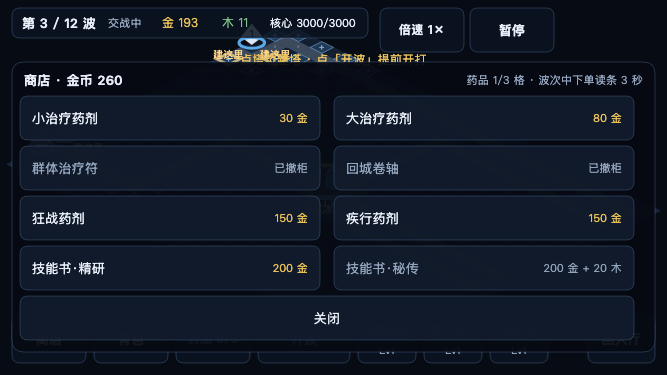
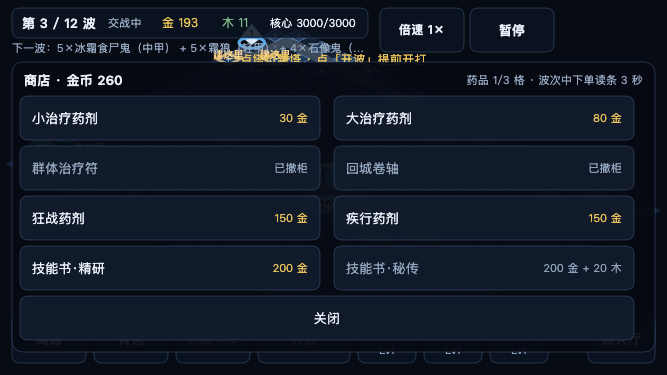
feat(minigame): 下一波预告 + 两个按模式取舍的设置开关（§8.3 / §6.2 / §154）
§8.3 的下一波预告在浏览器版是开波前必看的一行（这波是什么怪、什么护甲、有没有空中），
§6.2 的克制博弈整个建立在它上面。小游戏没有它，「补哪种塔」只能靠猜。

- HUD 多一行（y=48，顶栏与提示行之间）：文案取共享的 wavePreview(index+1, 3, waves)；
  太长按宽度裁到「…」（没有 CSS 的 text-overflow，怪物名与护甲标签长度可变）；
  设置里关掉时照浏览器版写「已在设置里关闭」——不是把这行藏起来
- 暂停面板按模式各补一格：TD 摆「波次预告」、防守摆「自动拾取」（内核读 m.autoPickup，改了立刻写进这一局）；
  这两格以前不敢摆是因为摆了没东西可接（§115/§154 那条「不给假选项」）
- 面板多一行 → 行高与位置重排，逐行仍 ≥44 且在画布内
- 用例 +2（纯绘制 / 关掉之后那一行改口）+ 暂停面板那条补两笔；两条变异反证
- npm test 315 → 317；minigame 6 条全过；主包 368.9 KB；样张重出

Changed region(s): [[0.0, 0.1173, 0.5397, 0.1467]]

diff --git a/src/minigame/battle.js b/src/minigame/battle.js
@@ -10,7 +10,7 @@ import {
   EQUIP_SELL_BONUS_LUMBER, EQUIP_SELL_REFUND, EQUIP_SLOTS, QUALITY, QUALITY_ORDER,
   SHOP_ITEMS, TARGET_PRIORITIES, TOWERS, TOWER_SELL_REFUND,
 } from '../data.js';
-import { attackHint, resultPanelModel, shopRows } from '../hud-model.js';
+import { attackHint, resultPanelModel, shopRows, wavePreview } from '../hud-model.js';
 import {
   TOWER_REPAIR_GOLD, craftableSlots, enhanceCostOf, potionCount, shopPriceOf, towerStatsAt, upgradeCost,
 } from '../match.js';
@@ -60,6 +60,18 @@ const text = (ctx, str, x, y, { size = 12, color = COLORS.ink, weight = '', alig
 const item = (id, x, y, w, h, label, action, extra = {}) => ({ id, x, y, w, h, label, action, ...extra });
 
 /**
+ * 把一句话裁到给定宽度（不够就加省略号）：HUD 上那几行文案的长度取决于**数据表**
+ * （怪物名与护甲标签都是可变的），量一量再画比「估个字数」靠谱——小游戏没有 CSS 的 `text-overflow`。
+ * 用不上 `measureText` 的假 ctx（Node 用例）会给出按字数估的宽度，行为一致。
+ */
+const fitText = (ctx, str, maxW) => {
+  if (ctx.measureText(str).width <= maxW) return str;
+  let cut = str;
+  while (cut.length > 1 && ctx.measureText(`${cut}…`).width > maxW) cut = cut.slice(0, -1);
+  return `${cut}…`;
+};
+
+/**
  * 战场 HUD 的布局（设计单位 667×375）。战场本身占满整屏，HUD 是压在上面的浮层：
  * 顶部一条状态栏、底部一排行（塔种 / 开波 / 技能 / 回大厅）。
  */
@@ -107,6 +119,8 @@ export function layoutBattle(model = {}) {
     // 顶栏只到 x=368：右边要留给倍速/暂停两个键（再往右是右上角胶囊区，官方要求避开）
     top: { x: 12, y: 8, w: 356, h: 30 },
     result: { x: 173, y: 120, w: 320, h: 130 },
+    // 下一波预告那一行（y=48：顶栏到 38 为止，再往下 60 是提示行；宽度在倍速键 380 之前收住）
+    preview: { x: 12, y: 48, w: 360 },
     tutorial: tutorial ? { x: 12, y: 261, w: 643, h: 44, text: tutorial } : null,
     items,
     byId: Object.fromEntries(items.map((it) => [it.id, it])),
@@ -123,7 +137,7 @@ export function hitTestBattle(L, x, y) {
 }
 
 /** 画 HUD（战场本身由 render.js 画，这里只画压在上面的那一圈） */
-export function drawBattleHud(ctx, m, L, { selectedTower = 'tw_arrow', message = null } = {}) {
+export function drawBattleHud(ctx, m, L, { selectedTower = 'tw_arrow', message = null, preview = null } = {}) {
   const waveLabel = m.length === 'long' ? `${m.wave.index} / 30 波` : `${m.wave.index} / 12 波`;
   const core = `${Math.round(m.core.hp)}/${m.core.maxHp}`;
   const phase = m.wave.phase === 'prep' ? `备战 ${Math.ceil(m.wave.timer)}s` : '交战中';
@@ -140,6 +154,14 @@ export function drawBattleHud(ctx, m, L, { selectedTower = 'tw_arrow', message =
   text(ctx, `金 ${Math.round(m.gold)}`, L.top.x + 150, L.top.y + 15, { size: 12, color: COLORS.gold });
   text(ctx, `木 ${Math.round(m.lumber?.[0] ?? 0)}`, L.top.x + 210, L.top.y + 15, { size: 12, color: COLORS.wood });
   text(ctx, `核心 ${core}`, L.top.x + 258, L.top.y + 15, { size: 11, color: m.core.hp / m.core.maxHp < 0.35 ? COLORS.danger : COLORS.ink });
+
+  /**
+   * 下一波预告（§8.3 / §6.2 的克制博弈）：**开波之前**就要能看出这一波是什么、
+   * 护甲是什么、有没有空中——不然「补哪种塔」这个决定只能靠猜。文案由 `wavePreview` 算（一份两处用）。
+   */
+  if (preview) {
+    text(ctx, fitText(ctx, preview, L.preview.w), L.preview.x, L.preview.y, { size: 11, color: COLORS.dim });
+  }
 
   // 引导条先画底、再画键：`items` 那一轮在它上面（跳过键就压在条的右端）
   if (L.tutorial) {
@@ -482,13 +504,26 @@ export function layoutPause(m, ui = {}) {
     id: 'sfx', label: '震动', sub: sv.sfx === false ? '关' : '开',
     x: 20, y: 196, w: 300, h: 44, on: sv.sfx !== false, action: { type: 'sfx' },
   });
-  rows.push({ id: 'lobby', label: '回大厅', x: 334, y: 196, w: 300, h: 44, action: { type: 'lobby' } });
+  /**
+   * §154：这一格也按模式取舍——TD 摆「波次预告」（§8.3：开波前先看这一波是什么），
+   * 防守摆「自动拾取」（§12.5：走到掉落物上自己捡）。两个都真的接着东西，不是摆样子。
+   */
+  rows.push(defense
+    ? {
+      id: 'autoPickup', label: '自动拾取', sub: sv.autoPickup === false ? '关' : '开',
+      x: 334, y: 196, w: 300, h: 44, on: sv.autoPickup !== false, action: { type: 'autoPickup' },
+    }
+    : {
+      id: 'wavePreview', label: '波次预告', sub: sv.showWavePreview === false ? '关' : '开',
+      x: 334, y: 196, w: 300, h: 44, on: sv.showWavePreview !== false, action: { type: 'wavePreview' },
+    });
+  rows.push({ id: 'lobby', label: '回大厅', x: 20, y: 246, w: 300, h: 44, action: { type: 'lobby' } });
   // §153 的「重看」：门槛只认 `profile.tutorialDone` 这一个标记，「重看」就是把它置回 false（下一局再挂）
   rows.push({
-    id: 'replayTutorial', label: '重看新手引导', sub: '下一局生效', x: 20, y: 246, w: 300, h: 44,
+    id: 'replayTutorial', label: '重看新手引导', sub: '下一局生效', x: 334, y: 246, w: 300, h: 44,
     action: { type: 'replayTutorial' },
   });
-  rows.push({ id: 'close', label: '收起面板', x: 334, y: 246, w: 300, h: 44, action: { type: 'close' } });
+  rows.push({ id: 'close', label: '收起面板', x: 20, y: 296, w: 614, h: 44, action: { type: 'close' } });
   return {
     kind: 'pause',
     title: '已暂停',
@@ -497,7 +532,7 @@ export function layoutPause(m, ui = {}) {
     hint: defense
       ? `第 ${m.assault?.round ?? 0} 轮 · 金币 ${Math.round(m.gold)}`
       : `第 ${m.wave.index} / ${m.length === 'long' ? 30 : 12} 波 · 金币 ${Math.round(m.gold)}`,
-    box: { x: 12, y: 62, w: 643, h: 240 },
+    box: { x: 12, y: 62, w: 643, h: 290 },
     rows, byId: Object.fromEntries(rows.map((r) => [r.id, r])),
   };
 }

diff --git a/src/minigame/game.js b/src/minigame/game.js
@@ -23,6 +23,7 @@ import { gridDist } from '../core.js';
 import { loadSettings, saveSettings } from '../settings.js';
 import { createHaptics } from '../feedback.js';
 import { createMinimap, createRenderer } from '../render.js';
+import { wavePreview } from '../hud-model.js';
 import {
   buildFort, createDefenseMatch, describeDefense, orderMove, repairCastle, steerGoal, teleportHome, updateDefense,
 } from '../defense.js';
@@ -173,6 +174,18 @@ export function startMinigame({ requestAnimationFrame: raf = globalThis.requestA
     y: Math.max(0, (size.height - DESIGN.h) / 2),
   });
 
+  /**
+   * 下一波预告那一行（§8.3 / §6.2）：文案取浏览器版那份 `wavePreview`（一份两处用），
+   * 只在设置里关掉时说「已在设置里关闭」——不是把这一行悄悄藏起来，
+   * 玩家得能分清「我关了」和「这波没有预告」。
+   */
+  const nextWaveHint = (m) => {
+    if (settings.showWavePreview === false) return '下一波：（已在设置里关闭）';
+    const p = wavePreview(m.wave.index + 1, 3, m.waves);
+    if (!p) return '下一波：—';
+    return `下一波：${p.tag ? `【${p.tag}】` : ''}${p.text}`;
+  };
+
   /** 进局：按大厅里选的那套配置开一局（联机/多人缩放先按单人；多人是后面的事） */
   const startMatch = () => {
     const seed = Date.now() % 1e6 || 7;
@@ -265,6 +278,12 @@ export function startMinigame({ requestAnimationFrame: raf = globalThis.requestA
         ...describeBattleModel(m), selectedTower: b.selectedTower, paused: b.paused, rate: b.rate,
         // 结算面板一出来就收掉提示条（浏览器版 `view.tutorial` 同源）
         tutorial: m.result ? null : (b.tutorial?.current()?.text ?? null),
+        /**
+         * 下一波预告（§8.3：把波次表翻成人话，含空中与 Boss 提示）——文案取浏览器版那份 `wavePreview`，
+         * 设置里关掉时照浏览器版写一句「已在设置里关闭」（不是把这一行悄悄藏起来，
+         * 玩家得知道是「我关了」而不是「这波没有预告」）。
+         */
+        preview: m.result ? null : nextWaveHint(m),
         ui: b.ui, sheet: b.sheetOf(),
       });
     b.layout = m.mode === 'defense' ? layoutDefense(m, defModel(b)) : layoutBattle(b.model());
@@ -504,6 +523,21 @@ export function startMinigame({ requestAnimationFrame: raf = globalThis.requestA
         settings = { ...settings, stick: settings.stick === 'floating' ? 'fixed' : 'floating' };
         saveSettings(settings);
         note(b, settings.stick === 'floating' ? '摇杆：浮动（跟手）' : '摇杆：固定（左下）', 1.4);
+        return action;
+      }
+      case 'wavePreview': {
+        // §8.3：开波前那行预告（防：关了就说一句「已在设置里关闭」，不是把那一行藏起来）
+        settings = { ...settings, showWavePreview: settings.showWavePreview === false };
+        saveSettings(settings);
+        note(b, settings.showWavePreview ? '波次预告已开' : '波次预告已关', 1.4);
+        return action;
+      }
+      case 'autoPickup': {
+        // §12.5：防守走到掉落物上自动捡。内核读的是 `m.autoPickup`，所以改了要**立刻**写进去
+        settings = { ...settings, autoPickup: settings.autoPickup === false };
+        saveSettings(settings);
+        b.m.autoPickup = settings.autoPickup;
+        note(b, settings.autoPickup ? '自动拾取已开' : '自动拾取已关', 1.4);
         return action;
       }
       case 'sfx': {
@@ -757,7 +791,8 @@ export function startMinigame({ requestAnimationFrame: raf = globalThis.requestA
         ctx.drawImage(b.minimap.canvas, MINIMAP.x, MINIMAP.y, MINIMAP.w, MINIMAP.h);
       }
     } else {
-      b.layout = layoutBattle(b.model());
+      const model = b.model();
+      b.layout = layoutBattle(model);
       // `hintSlots`：引导第一步/第二步在战场上圈出「建这里」（render.js 本来就有这段，直接复用）
       b.renderer.draw({
         m: b.m, selectedSlot: null, selectedTower: null, localSlot: 0, now: b.m.time, pulses: false,
@@ -766,7 +801,7 @@ export function startMinigame({ requestAnimationFrame: raf = globalThis.requestA
       // renderer 可能重设过变换，这里再对齐一次（并按大屏把 HUD 居中）
       const o = hudOffset();
       ctx.setTransform(size.dpr, 0, 0, size.dpr, size.dpr * o.x, size.dpr * o.y);
-      drawBattleHud(ctx, b.m, b.layout, { selectedTower: b.selectedTower, message });
+      drawBattleHud(ctx, b.m, b.layout, { selectedTower: b.selectedTower, message, preview: model.preview });
     }
     // 结算面板：内核出结果之后盖上来（内容是浏览器版那个 resultPanelModel，一份模型两个渲染器）
     recordIfFinished(b);

diff --git a/docs/STATUS.md b/docs/STATUS.md
@@ -21,7 +21,7 @@
 ## 2. 一条命令复跑全部验证
 
 ```bash
-npm test        # 315 项：数值 / 波次 / 经济 / 装备 / 天赋 / 技能细节 / 存档 / 联机 / 快速匹配 / 触觉反馈 / 摇杆指令 / 溅射衰减 / 药品计数 / 解锁来源与流水 / 野外区分区 / 亚格渲染 / 克制提示 / 局内资源不外流 / 仇恨 1 秒 / 野外区文案 / 战绩分模式 / 面板可见性 / 浮层收起 / 房间码提示 / 空房保留窗口 / 联机指令出口（handler 逐个查）/ 畸形指令与限速 / 克制表与枚举对齐 / 联机镜像不落本地存档（§113） / 大厅按模式给选项（§115：防守没有「局内时长」） / 低特效档真的关脉冲（§116） / 怪物光环按半径结算（§117） / Boss 光环按地图开关（§118） / 逻辑帧步长只有一个定义（§119） / 协议版本两侧校验（§120） / 畸形 URL 参数不崩服务端（§121） / 别人的名字不执行（§122） / 名字长度截断（§122） / 畸形指令值不崩服务端（§123） / 房间码不可枚举（§124） / 名单不广播 uid（§125） / 调试钩子默认关（§126）与「只在本地生效」（§197）/  免费期无付费入口（§128） / 联机结算面板也写「声望 +N」（§130） / 通关转无尽的出口（§131） / 精研技能书真的 +1 级（§132） / 狂战药剂真的持续 30 秒（§133） / 防守模式 buff 生效与疾风步移速（§134） / 两模式英雄 tick 职责对齐（§135） / 亡语分裂在防守里也生效（§136） / 防守的怪也吃减速眩晕 DoT（§137） / 防守内容不许带未实现能力（§138） / 「继续上局」只在**真读得出来**时出现（§139 + §204） /  **疾行药剂在两个模式都生效（§144） / **回城冷却进存档且真的走满 30 秒（§147） / **联机修塔真的生效、TD 专属指令在防守房被拒（§148） / **联机结算的伤害占比不为空、防守占比条写中文名（§149） / **结算面板的掉落栏写中文名（§151） / **快速匹配排队时写明「在等」（§152） / **新手引导的门槛与「重看」（§153） / **文案里的数字与数据表对账（§155） / ****临时端口串门与僵尸根因（§157）** / **4★-6★ 图能从大厅选到（§158） / **真机视口下大厅动作行粘底（§159） / **结算面板出口也粘底（§160） / **真机视口下防守 HUD 紧凑排布（§161） / **真机视口下引导条不压操作行（§162） / **联机长局镜像换成 30 波表（§163）/**§130 偶发红改成确定性（§164） / **联机怪物血条分母（§165）** / **联机房英雄职业进配置（§166）** / **浸泡不变量补五项（§167） / **真机视口下防守人体工学（§168）** / **§2.2 地图表逐列对账（§169） / **其余五张数值表逐列对账（§170） / **真机上的双指缩放与双击回核心（§171） / **把量出的偏差写回设计文档（§172） / **复跑三张数字表（§173） / **协议消息类型两边都要有人用（§174） / **零读者的导出扫干净（§175）** / **用到的 class 都有样式规则（§176）** / **客户端开局参数归一化（§177：坏 URL 不白屏 + 不污染档案）** / **缺 seed 的房间不再是常数种子（§177）** / **提示音在真机手势里解锁、日志不再谎报（§178）** / **真机手势卫生：连点技能键/长按不再被浏览器抢走（§180）** / **HUD 按安全区收边、不再压进刘海（§181）** / **冒烟的 CDP 请求加上限、不再偶发挂死（§182）** / **存不了档时说一声（§183）** / **大厅里不再偷偷打那一局（§184：不跑模拟、不出怪、不记档）** / **竖屏兜底「请横屏」（§185）**…
+npm test        # 317 项：数值 / 波次 / 经济 / 装备 / 天赋 / 技能细节 / 存档 / 联机 / 快速匹配 / 触觉反馈 / 摇杆指令 / 溅射衰减 / 药品计数 / 解锁来源与流水 / 野外区分区 / 亚格渲染 / 克制提示 / 局内资源不外流 / 仇恨 1 秒 / 野外区文案 / 战绩分模式 / 面板可见性 / 浮层收起 / 房间码提示 / 空房保留窗口 / 联机指令出口（handler 逐个查）/ 畸形指令与限速 / 克制表与枚举对齐 / 联机镜像不落本地存档（§113） / 大厅按模式给选项（§115：防守没有「局内时长」） / 低特效档真的关脉冲（§116） / 怪物光环按半径结算（§117） / Boss 光环按地图开关（§118） / 逻辑帧步长只有一个定义（§119） / 协议版本两侧校验（§120） / 畸形 URL 参数不崩服务端（§121） / 别人的名字不执行（§122） / 名字长度截断（§122） / 畸形指令值不崩服务端（§123） / 房间码不可枚举（§124） / 名单不广播 uid（§125） / 调试钩子默认关（§126）与「只在本地生效」（§197）/  免费期无付费入口（§128） / 联机结算面板也写「声望 +N」（§130） / 通关转无尽的出口（§131） / 精研技能书真的 +1 级（§132） / 狂战药剂真的持续 30 秒（§133） / 防守模式 buff 生效与疾风步移速（§134） / 两模式英雄 tick 职责对齐（§135） / 亡语分裂在防守里也生效（§136） / 防守的怪也吃减速眩晕 DoT（§137） / 防守内容不许带未实现能力（§138） / 「继续上局」只在**真读得出来**时出现（§139 + §204） /  **疾行药剂在两个模式都生效（§144） / **回城冷却进存档且真的走满 30 秒（§147） / **联机修塔真的生效、TD 专属指令在防守房被拒（§148） / **联机结算的伤害占比不为空、防守占比条写中文名（§149） / **结算面板的掉落栏写中文名（§151） / **快速匹配排队时写明「在等」（§152） / **新手引导的门槛与「重看」（§153） / **文案里的数字与数据表对账（§155） / ****临时端口串门与僵尸根因（§157）** / **4★-6★ 图能从大厅选到（§158） / **真机视口下大厅动作行粘底（§159） / **结算面板出口也粘底（§160） / **真机视口下防守 HUD 紧凑排布（§161） / **真机视口下引导条不压操作行（§162） / **联机长局镜像换成 30 波表（§163）/**§130 偶发红改成确定性（§164） / **联机怪物血条分母（§165）** / **联机房英雄职业进配置（§166）** / **浸泡不变量补五项（§167） / **真机视口下防守人体工学（§168）** / **§2.2 地图表逐列对账（§169） / **其余五张数值表逐列对账（§170） / **真机上的双指缩放与双击回核心（§171） / **把量出的偏差写回设计文档（§172） / **复跑三张数字表（§173） / **协议消息类型两边都要有人用（§174） / **零读者的导出扫干净（§175）** / **用到的 class 都有样式规则（§176）** / **客户端开局参数归一化（§177：坏 URL 不白屏 + 不污染档案）** / **缺 seed 的房间不再是常数种子（§177）** / **提示音在真机手势里解锁、日志不再谎报（§178）** / **真机手势卫生：连点技能键/长按不再被浏览器抢走（§180）** / **HUD 按安全区收边、不再压进刘海（§181）** / **冒烟的 CDP 请求加上限、不再偶发挂死（§182）** / **存不了档时说一声（§183）** / **大厅里不再偷偷打那一局（§184：不跑模拟、不出怪、不记档）** / **竖屏兜底「请横屏」（§185）**…
 npm run soak    # 180 局全组合浸泡：运行期不变量 + 存档不动点 + 客户端镜像一致性
 npm run smoke   # 378 条真浏览器断言（**三个视口**、十一个面；含快速匹配、内存告警降级、真按下的短震动链路、防守摇杆拖动、点空地的塔位提示、克制提示与护甲预告、野外区掉落加成、防守战绩口径、日志面板让位/恢复、跨局浮层收起、攻城图的修塔按钮、秘传技能书的技能栏变化、优先级/速度/围墙/重置进度、HUD 数值跟随（7+3 处）、塔面板 X 与标题、再开一局、长局 30 波 HUD、真机视口下的轮盘/塔面板、房间码提示与镜像对齐、进不去房间转单人继续、被动掉线自动重连、**六条联机指令真的到服务端**、**§113 联机点「回大厅/再开一局」真的离房**、**§114 联机不假装暂停/加速、掉线写清 5 分钟**/**§115 防守模式不摆「局内时长」假选项**/**§116 低特效档真的关脉冲**/**§145 每次版式体检都查「两块 HUD 浮层不许叠在一起」**/**§153 新手引导门槛与「重看」（§153）/**设置面板按模式取舍选项（§154）/**文案里的数字与数据表对账（§155）**/**临时端口串门与僵尸根因（§157）/**4★-6★ 图能从大厅选到（§158）/**真机视口下大厅动作行粘底（§159）/**结算面板出口也粘底（§160）**/**真机视口下防守 HUD 紧凑排布（§161）**/**真机视口下引导条不压操作行（§162）/**联机长局镜像换成 30 波表（§163）/**§130 偶发红改成确定性（§164）/**联机怪物血条分母（§165）**/**联机房英雄职业进配置（§166）**/**浸泡不变量补五项（§167）/**真机视口下防守人体工学（§168）**/**§2.2 地图表逐列对账（§169）/**其余五张数值表逐列对账（§170）/**真机上的双指缩放与双击回核心（§171）**/**客户端坏 URL 不白屏（§177）**/**提示音在真机策略下真的响了（§178）**/**真机手势卫生（§180）**/**HUD 不进刘海安全区（§181）**/**大厅不跑模拟（§184）**/**竖屏有「请横屏」兜底（§185）**/**低端 4G 模拟下首屏 ≤3 秒（§186）** / **「再开一局」连打的第二局也记档（§188）** / **浏览器里真的把 12 波打完、结算与档案都对（§189）** / **防守也真的守满 4 轮；城堡陷落后「继续（无尽）」不再挂着（§190）** / **长局 30 波也在浏览器里真的打完（§191，含一条参考打法在 4★ 长局末波输掉的观测）** / **中途加入已在打的房（§192）** / **§130 那条「声望 +N」的偶发红改成确定性（§193：根因是房间空着时就记了结算）** / **`sim` 调试钩子只在本地生效（§197：补上 §126 那条「非 URL 开关」的规矩）** / **连打不涨：6 局 DOM/堆都平，并把「每局不长 DOM」钉进冒烟（§198）** / **服务端不再攒退役房间（§199：删掉只写不读的 `stopped` 表）** / **画布内容与「画面在动」也有检查了（§200–§202）** / **第三个视口 568×320（§203）** / **「能读的才算有存档」补齐后半（§204）** / **档案形状归一化（§205）** / **日志面板的 innerHTML 先转义（§206：那一处最容易新增玩家名字）**
 npm run waves   # §8.5 逐波余量（4 人基准）
@@ -194,7 +194,7 @@ npm run bench / bandwidth   # 容量 / 带宽预算（§110/§111：两个工具
 |---|---|---|---|
 | 1 | **按 `game-design.md` 的已确认需求开发** | ✅ | 设计文档里**打勾的验收清单**逐条有实现与检查（见 §1 那张表）；**所有数值表逐列对过账**（§169/§170，改一处就红）；**原「等拍板」的 33 条已全部拍板并落地**（§3.1 + 验证记录 §207–§209；文档类的 20 条在附录 B/C 与对应小节补了口径） |
 | 2 | **一直开发到能玩为止** | ✅ | 浏览器里**真的**跑通过整条链路：TD 短局通关（§189：7.4 分钟、结算面板、记档、解锁 map_02）、防守守满 4 轮转无尽（§190）、**长局 30 波**（§191：32.5 分钟）；联机建房 / 快速匹配 / 中途加入第 3 波（§192）/ 掉线重连 / 离场（§102/§113/§114）；三个视口（1334×750 / 667×375 / **568×320**）的版式与人体工学（§203、§145）；手机竖屏有「请横屏」兜底（§185） |
-| 3 | **自己去验证错误** | ✅ | 验证记录 **§1–§233**：每条发现都带「一个能失败的检查」+ 变异反证；最新一轮全量复跑：`npm test` **315 项** · `npm run smoke` **378 条**（三个视口、十一个面）· `soak` 180 局（119 胜 61 负，不变量一条没破）· `matrix` 全绿（**并检查首发三图普通档 8-12 分钟**）· `defense` 12.7 分钟/4 轮 · `waves` 12/12 · `defense-matrix` 36 局守住 22（**验收线 8 格全过**）· `bandwidth` 6.61 KB/s（预算 15）· `bench` 1699k 实体·帧/秒 · `tutorial` 3/3 达标 |
+| 3 | **自己去验证错误** | ✅ | 验证记录 **§1–§234**：每条发现都带「一个能失败的检查」+ 变异反证；最新一轮全量复跑：`npm test` **317 项** · `npm run smoke` **378 条**（三个视口、十一个面）· `soak` 180 局（119 胜 61 负，不变量一条没破）· `matrix` 全绿（**并检查首发三图普通档 8-12 分钟**）· `defense` 12.7 分钟/4 轮 · `waves` 12/12 · `defense-matrix` 36 局守住 22（**验收线 8 格全过**）· `bandwidth` 6.61 KB/s（预算 15）· `bench` 1699k 实体·帧/秒 · `tutorial` 3/3 达标 |
 
 **仍然在别人手里的（不是欠债，是等输入）**：
 

diff --git a/README.md b/README.md
@@ -12,7 +12,7 @@
 M0.5 可玩原型（TD 塔防首发切片）：等距伪 3D 横屏战场、12 波、4 种塔各 3 级、4 英雄（含 2 主动技 + 技能书解锁第 3 技）、9 种怪物、装备掉落与一键合成、商店与药品、暂停与加速。
 
 ```bash
-npm test        # 315 项（含小游戏打包产物的检查）：数值 / 波次 / 经济 / 人数缩放（§1.6：怪量·生命·金币，联机房按名册定档）/ 地形（§2.3：岩浆挡弹道、沼泽减速与射程 −1、高地射程 +1.5 攻击 +10%）/ 难度四列（§2.4：生命·攻击·出怪速度·掉落）/ 局外人物等级（初始金币 + 复活加速）/ 武器 4 类（单体/群伤/减速/对空，特性真的生效）· 装备（主属性与词条真的进战斗 · 强化 +1..+5 · 自由换装 · 出售返还）/ DPS 线（裸装 ≤2.5 座塔 + **满装 ≤4 座**，§3.1 #3）/ 掉落节奏（含橙装来源拆账）/ 概率上限与闪避 / 容错率 / 整局 / 天赋接线（钢铁意志·咒术精通·法力涌动）/ 技能细节（制裁之锤对 Boss 眩晕减半、猎人印记加成英雄普攻）/ 商店（3 格背包·波次中读条 3 秒·回城卷轴·**防守商店只在基地内**〔§3.1 #14〕·群疗符禁售〔#20〕）/ 指令表双向对齐（含 **`leave`**）/ 主动退房与掉线的区别（§3.1 #23）/ 设备级 token：冒用 uid 被拒 + 本机换身份重连（§3.1 #24）/ **深链进锁着的图按档案归一化**（§3.1 #29）/ 中途加入窗口（§12.3）/ 快速匹配（§1.5：分桶·满员即开·45 秒窗口）/ 攻击优先级（§8.3 四种模式）/ 克制提示（§3.8·§6.2：提示由克制表算出）/ 克制表与枚举对齐（§6.2）/ 实体传送点（§2.6）/ 上次配置一键开局（§2.1） / 局内资源不外流（§12.6）/ 战绩分模式（§12.6：TD 最快通关 / 防守守住轮次）/ 仇恨 1 秒窗口（§7.7：脱离后还要被追打 1 秒）/ 野外区文案（§2.6：区名 + 等级段 + 掉落加成）/ 面板可见性（§14.3：日志让位由 CSS 表达）/ 跨局浮层收起（§95：开新局前收掉轮盘与塔面板）/ 房间码没命中的提示与房间配置对齐（§1.5 / §102）/ 空房保留 5 分钟边界（§10.3）/ 联机指令出口（§10.1：键盘与按钮同一条路，且每个 handler 都有 net 分支）/ 畸形指令与限速（§12.7 / §108）/ 防守摇杆指令（§1.9.1·§10.1：目标格算法 + 贴墙退化）/ 溅射距离衰减（§7.1：落点 100% → 边缘 50%）/ 野外区分区掉落（§2.6·§12.8：dropBonus）/ 解锁来源与货币流水（§1.7.3）/ 亚格渲染（§10.3：怪与人物按 dist/carry 画，不再跳格）/ 快照序号与补发（§10.3 序号跳跃 → 请求全量） / 渲染（相机·小地图·地图缩略图）/ HUD / 联机 / 带宽 / 重连 / 存档 / 解锁 / 队伍色 / 预测 / 性能护栏 / 不卡死（每局都必须能结束）/ 复活保护 / 触觉反馈 / 药品计数（§5.5） / 联机镜像不落本地存档（§113） / 大厅按模式给选项（§115：防守没有「局内时长」） / 低特效档真的关脉冲（§116） / 怪物光环按半径结算（§117） / Boss 光环按地图开关（§118） / 逻辑帧步长只有一个定义（§119） / 协议版本两侧校验（§120） / 畸形 URL 参数不崩服务端（§121） / 别人的名字不执行（§122） / 名字长度截断（§122） / 畸形指令值不崩服务端（§123） / 房间码不可枚举（§124） / 名单不广播 uid（§125） / 调试钩子默认关（§126） / 免费期无付费入口（§128） / 联机结算面板也写「声望 +N」（§130） / 通关转无尽的出口（§131） / 精研技能书真的 +1 级（§132） / 狂战药剂真的持续 30 秒（§133） / 防守模式 buff 生效与疾风步移速（§134） / 两模式英雄 tick 职责对齐（§135） / 亡语分裂在防守里也生效（§136） / 防守的怪也吃减速眩晕 DoT（§137） / 防守内容不许带未实现能力（§138） / **疾行药剂在两个模式都生效（§144）** / **回城冷却进存档且真的走满 30 秒（§147）** / **联机修塔真的生效、TD 专属指令在防守房被拒（§148） / **联机结算的伤害占比不为空、防守占比条写中文名（§149） / **结算面板的掉落栏写中文名（§151） / **快速匹配排队时写明「在等」（§152） / **新手引导的门槛与「重看」（§153）** / **设置面板按模式取舍选项（§154）** / **文案里的数字与数据表对账（§155） / ****临时端口串门与僵尸 npm test 的根因（§157）** / **4★-6★ 图能从大厅选到（§158） / **真机视口下大厅动作行粘底（§159） / **结算面板出口也粘底（§160） / **真机视口下防守 HUD 换紧凑排布（§161） / **真机视口下引导条不压操作行（§162） / **联机长局的镜像换成 30 波表（§163） / **§130 偶发红改成确定性（§164） / **联机怪物血条的分母由服务端给（§165） / **联机房的英雄职业也进配置（§166） / **浸泡的不变量补五项（§167） / **真机视口下防守人体工学也量了（§168） / **§2.2 地图表逐列对账（§169） / **其余五张数值表逐列对账（§170） / **真机上的双指缩放与双击回核心（§171） / **把量出的偏差写回设计文档（§172） / **复跑三张数字表（§173） / **协议消息类型两边都要有人用（§174） / **零读者的导出扫干净（§175）** / **用到的 class 都有样式规则（§176）** / **客户端开局参数归一化：坏 URL 不再白屏、不再污染档案（§177）** / **提示音在真机手势里解锁、日志不再谎报（§178）** / **真机手势卫生：连点技能键不再触发双击缩放（§180）** / **HUD 不再压进刘海（§181：按 `env(safe-area-inset-*)` 收边）** / **存不了档时说一声（§183）** / **大厅里不再偷偷打那一局（§184：不跑模拟、不记档）** / **竖屏兜底「请横屏」（§185）**
+npm test        # 317 项（含小游戏打包产物的检查）：数值 / 波次 / 经济 / 人数缩放（§1.6：怪量·生命·金币，联机房按名册定档）/ 地形（§2.3：岩浆挡弹道、沼泽减速与射程 −1、高地射程 +1.5 攻击 +10%）/ 难度四列（§2.4：生命·攻击·出怪速度·掉落）/ 局外人物等级（初始金币 + 复活加速）/ 武器 4 类（单体/群伤/减速/对空，特性真的生效）· 装备（主属性与词条真的进战斗 · 强化 +1..+5 · 自由换装 · 出售返还）/ DPS 线（裸装 ≤2.5 座塔 + **满装 ≤4 座**，§3.1 #3）/ 掉落节奏（含橙装来源拆账）/ 概率上限与闪避 / 容错率 / 整局 / 天赋接线（钢铁意志·咒术精通·法力涌动）/ 技能细节（制裁之锤对 Boss 眩晕减半、猎人印记加成英雄普攻）/ 商店（3 格背包·波次中读条 3 秒·回城卷轴·**防守商店只在基地内**〔§3.1 #14〕·群疗符禁售〔#20〕）/ 指令表双向对齐（含 **`leave`**）/ 主动退房与掉线的区别（§3.1 #23）/ 设备级 token：冒用 uid 被拒 + 本机换身份重连（§3.1 #24）/ **深链进锁着的图按档案归一化**（§3.1 #29）/ 中途加入窗口（§12.3）/ 快速匹配（§1.5：分桶·满员即开·45 秒窗口）/ 攻击优先级（§8.3 四种模式）/ 克制提示（§3.8·§6.2：提示由克制表算出）/ 克制表与枚举对齐（§6.2）/ 实体传送点（§2.6）/ 上次配置一键开局（§2.1） / 局内资源不外流（§12.6）/ 战绩分模式（§12.6：TD 最快通关 / 防守守住轮次）/ 仇恨 1 秒窗口（§7.7：脱离后还要被追打 1 秒）/ 野外区文案（§2.6：区名 + 等级段 + 掉落加成）/ 面板可见性（§14.3：日志让位由 CSS 表达）/ 跨局浮层收起（§95：开新局前收掉轮盘与塔面板）/ 房间码没命中的提示与房间配置对齐（§1.5 / §102）/ 空房保留 5 分钟边界（§10.3）/ 联机指令出口（§10.1：键盘与按钮同一条路，且每个 handler 都有 net 分支）/ 畸形指令与限速（§12.7 / §108）/ 防守摇杆指令（§1.9.1·§10.1：目标格算法 + 贴墙退化）/ 溅射距离衰减（§7.1：落点 100% → 边缘 50%）/ 野外区分区掉落（§2.6·§12.8：dropBonus）/ 解锁来源与货币流水（§1.7.3）/ 亚格渲染（§10.3：怪与人物按 dist/carry 画，不再跳格）/ 快照序号与补发（§10.3 序号跳跃 → 请求全量） / 渲染（相机·小地图·地图缩略图）/ HUD / 联机 / 带宽 / 重连 / 存档 / 解锁 / 队伍色 / 预测 / 性能护栏 / 不卡死（每局都必须能结束）/ 复活保护 / 触觉反馈 / 药品计数（§5.5） / 联机镜像不落本地存档（§113） / 大厅按模式给选项（§115：防守没有「局内时长」） / 低特效档真的关脉冲（§116） / 怪物光环按半径结算（§117） / Boss 光环按地图开关（§118） / 逻辑帧步长只有一个定义（§119） / 协议版本两侧校验（§120） / 畸形 URL 参数不崩服务端（§121） / 别人的名字不执行（§122） / 名字长度截断（§122） / 畸形指令值不崩服务端（§123） / 房间码不可枚举（§124） / 名单不广播 uid（§125） / 调试钩子默认关（§126） / 免费期无付费入口（§128） / 联机结算面板也写「声望 +N」（§130） / 通关转无尽的出口（§131） / 精研技能书真的 +1 级（§132） / 狂战药剂真的持续 30 秒（§133） / 防守模式 buff 生效与疾风步移速（§134） / 两模式英雄 tick 职责对齐（§135） / 亡语分裂在防守里也生效（§136） / 防守的怪也吃减速眩晕 DoT（§137） / 防守内容不许带未实现能力（§138） / **疾行药剂在两个模式都生效（§144）** / **回城冷却进存档且真的走满 30 秒（§147）** / **联机修塔真的生效、TD 专属指令在防守房被拒（§148） / **联机结算的伤害占比不为空、防守占比条写中文名（§149） / **结算面板的掉落栏写中文名（§151） / **快速匹配排队时写明「在等」（§152） / **新手引导的门槛与「重看」（§153）** / **设置面板按模式取舍选项（§154）** / **文案里的数字与数据表对账（§155） / ****临时端口串门与僵尸 npm test 的根因（§157）** / **4★-6★ 图能从大厅选到（§158） / **真机视口下大厅动作行粘底（§159） / **结算面板出口也粘底（§160） / **真机视口下防守 HUD 换紧凑排布（§161） / **真机视口下引导条不压操作行（§162） / **联机长局的镜像换成 30 波表（§163） / **§130 偶发红改成确定性（§164） / **联机怪物血条的分母由服务端给（§165） / **联机房的英雄职业也进配置（§166） / **浸泡的不变量补五项（§167） / **真机视口下防守人体工学也量了（§168） / **§2.2 地图表逐列对账（§169） / **其余五张数值表逐列对账（§170） / **真机上的双指缩放与双击回核心（§171） / **把量出的偏差写回设计文档（§172） / **复跑三张数字表（§173） / **协议消息类型两边都要有人用（§174） / **零读者的导出扫干净（§175）** / **用到的 class 都有样式规则（§176）** / **客户端开局参数归一化：坏 URL 不再白屏、不再污染档案（§177）** / **提示音在真机手势里解锁、日志不再谎报（§178）** / **真机手势卫生：连点技能键不再触发双击缩放（§180）** / **HUD 不再压进刘海（§181：按 `env(safe-area-inset-*)` 收边）** / **存不了档时说一声（§183）** / **大厅里不再偷偷打那一局（§184：不跑模拟、不记档）** / **竖屏兜底「请横屏」（§185）**
 npm run selfplay  # 无头打一整局，打印每波推进与结算（默认 4 人基准；FF_PLAYERS=1 切单人档，§1.6）
 npm run bandwidth # 带宽实测（默认 8 秒，可传秒数）
 npm run bench     # 容量实测（默认 200 实体 × 600 tick；§111 起：过程里场上掉到目标的 90% 以下就 exit 1，不再拿空场的吞吐当结论）

diff --git a/docs/minigame-port.md b/docs/minigame-port.md
@@ -172,7 +172,7 @@ npm run minigame         # 先打包再跑本地验收（假 wx）
 ```bash
 npm run minigame          # 打包 + 假 wx 验收（含「大厅画出来了 / 触摸能选中」6 条）
 npm run minigame:preview  # 出七张样张（大厅 / 战场 / 塔 / 商店 / 结算 / 暂停 / 防守）
-npm test                  # 315 项：小游戏这一层的大厅 / 战场 / 建造 / 商店 / 结算 / 暂停 / 继续上局 / 防守 / 新手引导 / 相机
+npm test                  # 317 项：小游戏这一层的大厅 / 战场 / 建造 / 商店 / 结算 / 暂停 / 继续上局 / 防守 / 新手引导 / 相机
 ```
 
 ## 6. 发布前还差什么（非代码，都要你那边办）
@@ -225,7 +225,7 @@ npm test                  # 315 项：小游戏这一层的大厅 / 战场 / 建
 ```bash
 npm run minigame          # 打包 + 假 wx 本地验收（6 条：环境自检 / 内核等价性 / 模块清单 / 大厅画出来了 / 触摸能选中 / 点开局能进局）
 npm run minigame:preview  # 本机 Chrome 出七张样张（docs/testing/screenshots/minigame-*.png）
-npm test                  # 315 项，含小游戏这几屏的布局 / 命中 / 状态迁移 / 记档
+npm test                  # 317 项，含小游戏这几屏的布局 / 命中 / 状态迁移 / 记档
 npm run smoke             # 378 条真浏览器断言（浏览器那一侧的界面仍然按浏览器验）
 ```
 
@@ -492,3 +492,24 @@ STATUS §3.1 #33 拍板过一件事：**最小支持视口 = 667×375**，比它
 那一格的命中就是回城）与真机路（离屏画布上真的画了底/野区/围墙与那些圆点、主画布这一帧 `drawImage` 贴了它、
 点它真的进 30 秒冷却）；TD 那边钉一句「不该有小地图」（它是跟随相机的防守专属）。
 两条变异反证（不贴图、拿掉那一格）都红。样张 `minigame-defense.png` 现在能看到小地图。
+
+### 5.2.17 下一波预告 + 两个设置开关（已完成 · 2026-09-23）
+
+§8.3 的「下一波预告」在浏览器版是这么用的：**开波之前**先看这一波是什么怪、什么护甲、有没有空中，
+据此决定补哪种塔——§6.2 那条克制博弈（以及 §3.8 的克制提示）整个建立在这行字上。小游戏这边没有它，
+于是「补哪种塔」只能靠猜或靠 §3.8 提示事后补救。
+
+* HUD 上多一行（y=48，顶栏与提示行之间）：`下一波：3×冰霜食尸鬼（中甲） + 2×霜狼（轻甲） …`，
+  文案取浏览器版那份 `wavePreview(m.wave.index + 1, 3, m.waves)`（一份两处用，含空中与 Boss 的标记）；
+  太长就按宽度裁到「…」（小游戏没有 CSS 的 `text-overflow`，所以在绘制时量一量）；
+  设置里关掉时**照浏览器版写一句「已在设置里关闭」**——不是把这一行藏起来，玩家得能分清「我关了」
+  和「这波没有预告」。
+* 暂停面板里补上两个**按模式取舍**的开关（§154）：TD 摆**波次预告**、防守摆**自动拾取**
+  （§12.5：走到掉落物上自己捡，内核读 `m.autoPickup`，所以一改就立刻写进这一局）。
+  这两个以前不敢摆，是因为摆了也没东西可接（预告不存在、自动拾取只在开局生效）——现在两条都真的接着东西。
+* 面板因此多了一行，行高与位置重排（收起面板单独占最后一行），仍然逐行 ≥44 且在画布内。
+
+**验收**：`tests/minigame-battle.test.js` 加两条——纯绘制（那一行画出来、太长以「…」收尾、y=48 在顶栏与提示行之间）
+与闭环（第一局默认能看到下一波与护甲 → 暂停面板里那颗「波次预告」切到「关」→ 设置落盘 →
+HUD 那一行改成「已在设置里关闭」）；暂停面板那条用例补上「TD 摆波次预告、不摆自动拾取」。
+两条变异反证（把 `preview` 写死成 null、把那一格改名）都红。

diff --git a/docs/testing/m0.5-td-prototype.md b/docs/testing/m0.5-td-prototype.md
@@ -9386,3 +9386,40 @@ TD 那边钉一句反向断言：「TD 的 HUD 上不该有小地图」（它是
 
 `npm test` 313 → **315 项** · `npm run minigame` 6 条全过 · 主包 17 个模块 / 364.9 KB（4MB 上限的 8.9%）·
 样张重出（`minigame-defense.png` 现在能看到小地图）· 浏览器侧一行没动。
+
+## 234. 小游戏补「下一波预告」与两个设置开关（§8.3 / §6.2 / §154）
+
+继续同一条尺子量。这次量到的是**策略**那一层：§8.3 的「下一波预告」在浏览器版是开波前必看的一行
+（这波是什么怪、什么护甲、有没有空中），§6.2 那条克制博弈就建立在这行字上。小游戏这边没有它，
+于是「补哪种塔」只能靠猜——§3.8 的克制提示只能在选中塔之后告诉你，来不及。
+
+### 234.1 一行预告 + 两个开关
+
+| 事 | 做法 |
+|---|---|
+| 预告那一行 | HUD 上 y=48（顶栏 38 与提示行 60 之间），文案取浏览器版那份 `wavePreview(index+1, 3, waves)`（一份两处用） |
+| 太长怎么办 | 绘制时用 `ctx.measureText` 裁到「…」——小游戏没有 CSS 的 `text-overflow`，而怪物名与护甲标签来自数据表、长度可变 |
+| 设置里关了 | 照浏览器版写一句「已在设置里关闭」，**不是把这一行藏起来**：玩家得能分清「我关了」和「这波没有预告」 |
+| 暂停面板 | 按模式各补一格（§154）：TD 摆**波次预告**、防守摆**自动拾取**（§12.5；内核读 `m.autoPickup`，改了立刻写进这一局） |
+
+那两个开关以前不敢摆，是因为**摆了也没东西可接**（预告不存在；自动拾取只在开局那一刻读一次）——
+现在两条都真的接着东西，这才敢摆（§115/§154 那条「不给假选项」的同一道判断）。
+面板因此多一行，行高与位置重排（收起面板单独占最后一行），逐行仍然 ≥44 且在画布内。
+
+### 234.2 检查
+
+`tests/minigame-battle.test.js` 加两条：
+
+① 纯绘制——那一行画出来（含护甲）、长句以「…」收尾、`L.preview.y` 落在顶栏与提示行之间；
+② 闭环——第一局默认能看到下一波与护甲 → 暂停面板里那颗「波次预告」切到「关」→ 设置真的落盘 →
+   HUD 那一行改成「已在设置里关闭」。原来那条暂停面板用例补上「TD 摆波次预告、不摆自动拾取」。
+
+| 变异 | 结果 |
+|---|---|
+| 把 `preview` 写死成 `null` | ② 红在「下一波：…（甲）」那条正则 |
+| 把面板里那一格改名（等于没有） | ① 的 §154 断言与 ② 都红 |
+
+### 234.3 数字
+
+`npm test` 315 → **317 项** · `npm run minigame` 6 条全过 · 主包 17 个模块 / 368.9 KB（4MB 上限的 9.0%）·
+样张重出（`minigame-battle.png` 现在能看到预告那一行）· 浏览器侧一行没动。
